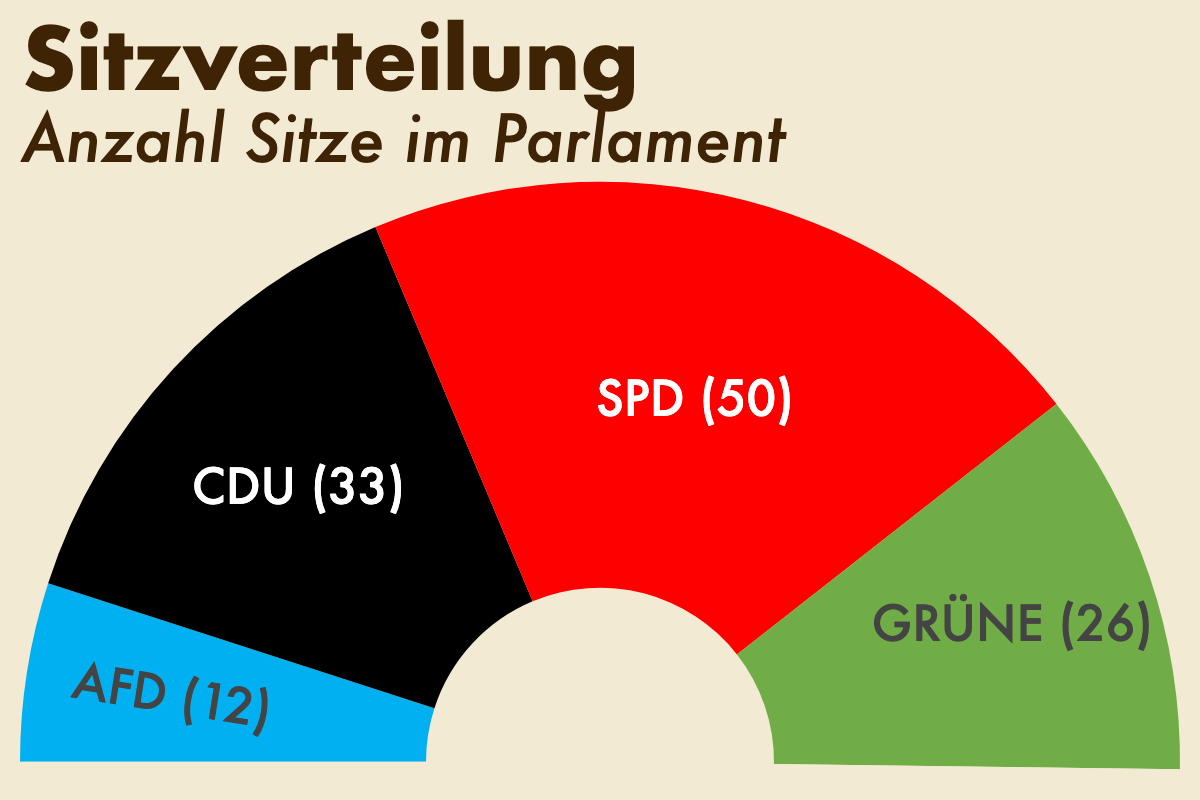
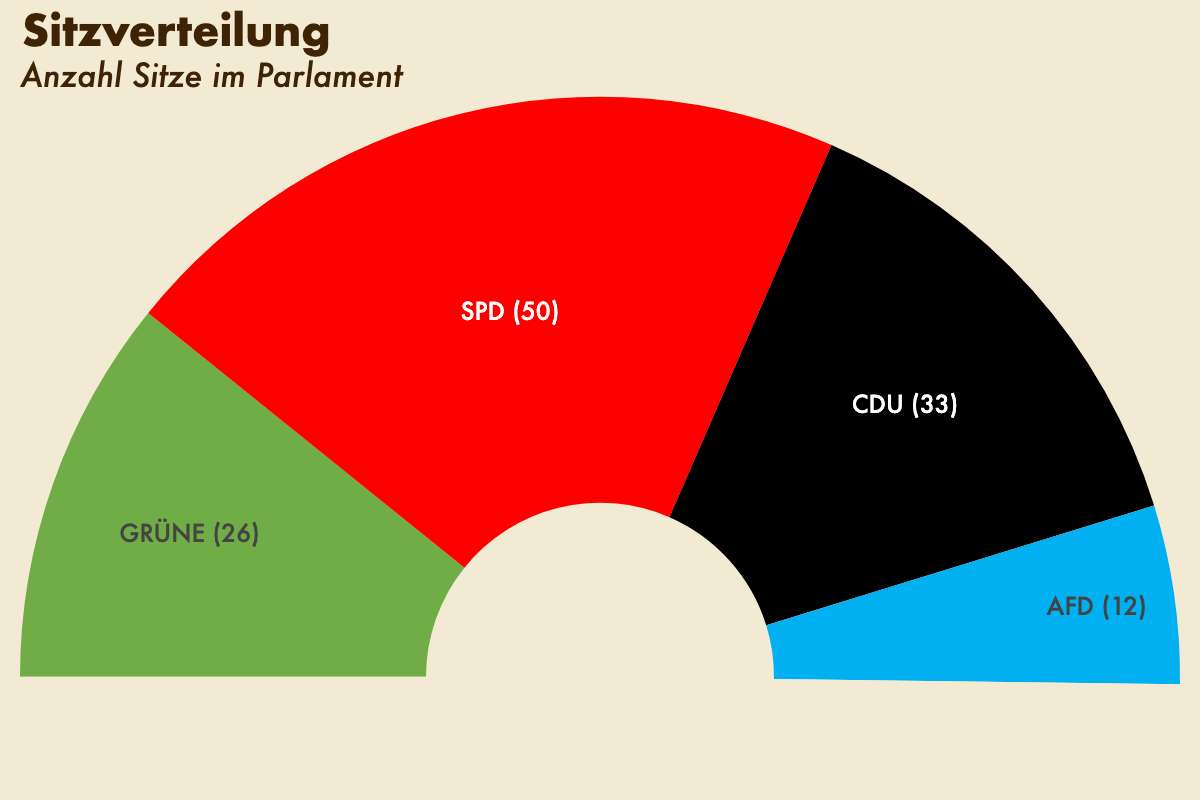
onePager finished

diff --git a/votingData.py b/votingData.py
@@ -414,7 +414,7 @@ class VotingData:
 
             # sort by politcal spectrum
             printDataParliament = printDataParliament.sort_values(
-                by=[self.columnSpectrum], ascending=False
+                by=[self.columnSpectrum], ascending=True
             )
             # add dummy row for displaying half-circle
             printDataParliament = printDataParliament._append(
@@ -435,7 +435,7 @@ class VotingData:
                         title=dict(
                             text="<i>" + subtitle + "</i>",
                             font=dict(family=self.fontfamily,
-                                      size=self.fontsize["subtitle"] * 2,
+                                      size=self.fontsize["subtitle"],
                                       color=self.colors["subtitle"],
                                       ),
                             position="top left",
@@ -446,7 +446,7 @@ class VotingData:
                         + ")",
                         textinfo="text",
                         marker_colors=printDataParliament[self.columnColor],
-                        textfont_size=self.fontsize["values"] * 2,
+                        textfont_size=self.fontsize["values"],
                         textposition='inside',
                         # insidetextorientation="horizontal",
                         hole=0.3,
@@ -466,13 +466,13 @@ class VotingData:
                 annotations=[
                     dict(
                         x=0.0,
-                        y=0.95,
+                        y=0.91,
                         xref="paper",
                         yref="paper",
                         text="<b>" + title + "</b>",
                         showarrow=False,
                         font=dict(family=self.fontfamily,
-                                  size=self.fontsize["title"] * 2, color=self.colors["title"]
+                                  size=self.fontsize["title"], color=self.colors["title"]
                                   ),
                     )
                 ],
@@ -486,7 +486,7 @@ class VotingData:
                 # get image width
             with Image.open(outputfile) as img:
                 # crop image
-                img.crop((0, self.height * 0.1, self.width, self.height * 1.1)
+                img.crop((0, self.height * 0.18, self.width, self.height * 1.18)
                          ).save(outputfile)
 
         ##############################################################################################################################
@@ -587,7 +587,6 @@ class VotingData:
 #### createOnePager #########################################################################################################
 ##############################################################################################################################
 
-
     def createOnePager(self, year, outputfolder="output"):
 
         # title variables
@@ -630,15 +629,12 @@ class VotingData:
         imgBarCoalitions = Image.open("output/barCoalition.png")
 
         # dimensions
-
-        widths = (imgBarResult.size[0] + imgBarCompare.size[0],
-                  imgPieParliament.size[0] + imgBarCoalitions.size[0])
-        heights = (imgBarResult.size[1] + imgPieParliament.size[1],
-                   imgBarCompare.size[1] + imgBarCoalitions.size[1])
-        imgWidth = int(max(widths) * 1.1)
-        imgHeight = int(max(heights) * 1.2)
-        margin = dict(l=int(imgWidth*0.02), r=int(imgWidth*0.02),
-                      t=int(imgHeight*0.1), b=int(imgHeight*0.05))
+        spaceTitle = int(self.height * 0.3)
+        spaceGraphMargins = (int(self.width * 0.05), int(self.height * 0.05))
+        imgWidth = int(self.width * 2 + spaceGraphMargins[0] * 3)
+        imgHeight = int(self.height * 2 +
+                        spaceGraphMargins[1] * 3 + spaceTitle)
+        print(imgWidth, imgHeight)
 
         # create onePager
         onePager = Image.new(
@@ -647,23 +643,27 @@ class VotingData:
                 imgWidth,
                 imgHeight,
             ),
-            color=self.colors["background"],
+            color=self.colors["diagram"],
         )
 
         # add graphs to onePager
-        onePager.paste(imgBarResult, (margin["l"], margin["t"]))
-        onePager.paste(imgPieParliament, (0, imgBarResult.size[1]))
-       # onePager.paste(imgBarCompare, (imgBarResult.size[0], 0))
-       # onePager.paste(
-       #     imgBarCoalitions, (imgBarResult.size[0], imgBarCompare.size[1]))
+        onePager.paste(
+            imgBarResult, (spaceGraphMargins[0], spaceTitle + spaceGraphMargins[1]))
+        onePager.paste(
+            imgPieParliament, (spaceGraphMargins[0], self.height + spaceGraphMargins[1] * 2 + spaceTitle))
+        onePager.paste(imgBarCompare, (self.width +
+                       spaceGraphMargins[0] * 2, spaceTitle + spaceGraphMargins[1]))
+        onePager.paste(
+            imgBarCoalitions, (self.width +
+                               spaceGraphMargins[0] * 2, self.height + spaceGraphMargins[1] * 2 + spaceTitle))
 
         # add title
         onePager.save(os.path.join(outputfolder, filenameOnePager),
-                      "PNG", resolution=100.0)
+                      "PNG")
         finalPager = Image.open(os.path.join(outputfolder, filenameOnePager))
         draw = ImageDraw.Draw(finalPager)
-        font = ImageFont.truetype("fonts/Futura.ttc", 240)
-        draw.text((margin["l"], margin["t"] / 6), titleMain, font=font, fill=self.colors["title"],
+        font = ImageFont.truetype("fonts/Futura.ttc", 140)
+        draw.text((spaceGraphMargins[0], spaceGraphMargins[1]), titleMain, font=font, fill=self.colors["title"],
                   )
         finalPager.save(os.path.join(outputfolder, filenameOnePager),
                         "PNG")

diff --git a/readme.md b/readme.md
@@ -2,18 +2,10 @@
 **The Voting Graph Portfolio** is a python class that allows to create different voting charts/graphs. This class takes a pandas dataframe as input and processes the data in order to display the graphs accordingly.
 This tool is loosly based on german elections. Some rulesets may differ from the reality. This is just a hobby project for practicing data processing and data visualization.
 
-## Examples Graphs
-###  Bar Graph for voting result (percentage)
-![Example Chart](https://github.com/ricochan/VotingGraphPortfolio/blob/main/output/barResult.png "Example Chart")
+## Example Graph
+###  One Pager with multiple different graphs
+![Example Chart](https://github.com/ricochan/VotingGraphPortfolio/blob/main/output/ElectionResult_2021.png "Example Chart")
 
-### Bar Graph with comparison to previous voting results
-![Example Chart](https://github.com/ricochan/VotingGraphPortfolio/blob/main/output/barDifference.png "Example Chart")
-
-### Parliament Seat Distribution
-![Example Chart](https://github.com/ricochan/VotingGraphPortfolio/blob/main/output/pieParliament.png "Example Chart")
-
-## Coalition Chart
-![Example Chart](https://github.com/ricochan/VotingGraphPortfolio/blob/main/output/barCoalition.png "Example Chart")
 
 ## Goals
 * :white_check_mark: done / implemented 
@@ -35,7 +27,7 @@ This tool is loosly based on german elections. Some rulesets may differ from the
 * :white_check_mark:  create a bar graph with results compared to last year
 * :white_check_mark:  create a bar graph with seat distribution in parliament
 * :white_check_mark:  create a visulisation for possible coalitions
-* :large_orange_diamond:  create a pdf/png with all graphs combined
+* :white_check_mark: create a pdf/png with all graphs combined
 
 ### Extra Goals
 * :white_check_mark:  add styling options/method for customization (color and font-sizes can be changed)
@@ -45,6 +37,8 @@ This tool is loosly based on german elections. Some rulesets may differ from the
 * :red_circle: create documentation
 * :red_circle: create and publish as package
 
+### Known Bugs
+* :red_circle: rounding error/problems where more seats are allocated than the defined maximum
 
 ## Dependencies
 * pandas
